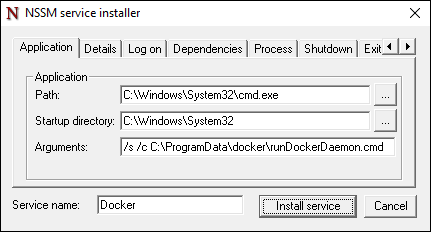
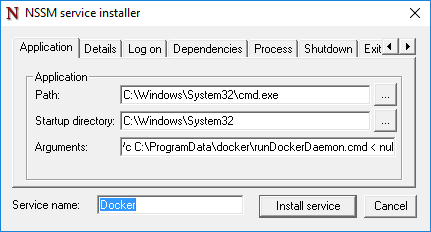
Fix nssm to stop docker without timeout

Changed region(s): [[0.0, 0.0, 1.0, 1.0], [0.2715, 0.6034, 0.9049, 0.6638], [0.2111, 0.8448, 0.3318, 0.9353]]

diff --git a/virtualization/windowscontainers/deployment/docker_windows.md b/virtualization/windowscontainers/deployment/docker_windows.md
@@ -70,7 +70,7 @@ Application Tab:
 
 - **Startup Directory:** C:\Windows\System32
 
-- **Arguments:** /s /c C:\ProgramData\docker\runDockerDaemon.cmd
+- **Arguments:** /s /c C:\ProgramData\docker\runDockerDaemon.cmd < nul
 
 - **Service Name** - Docker
 
